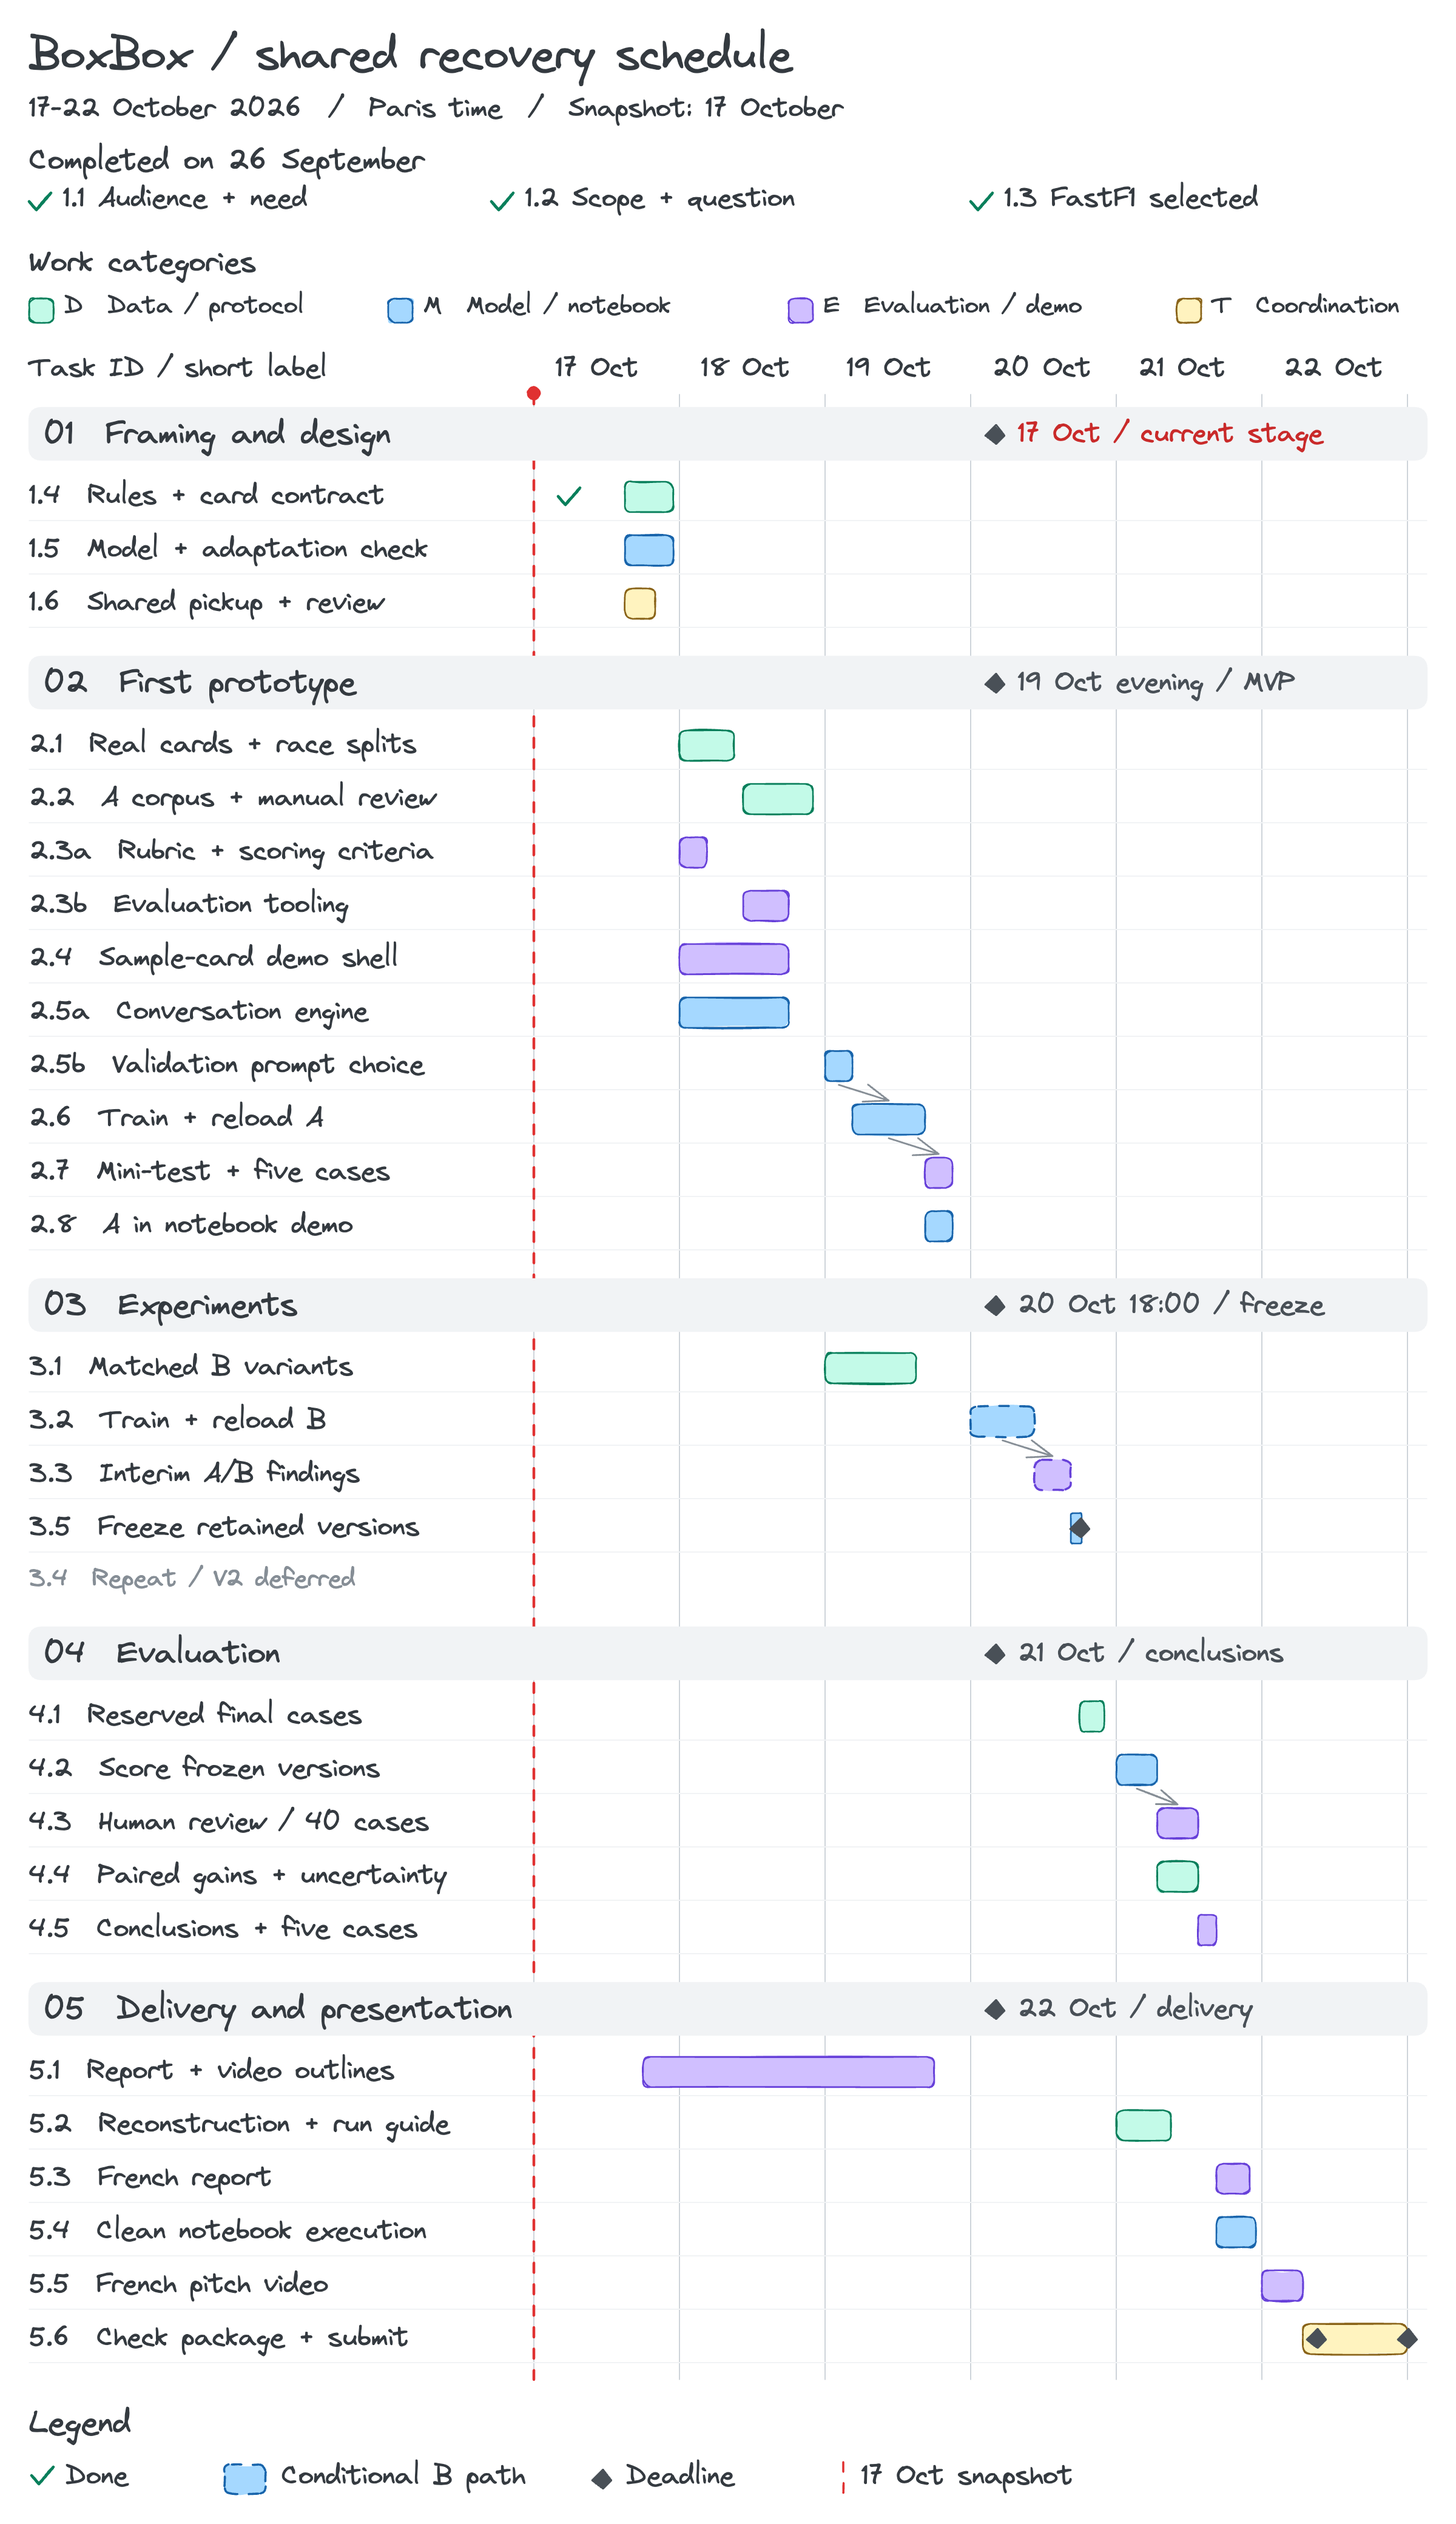
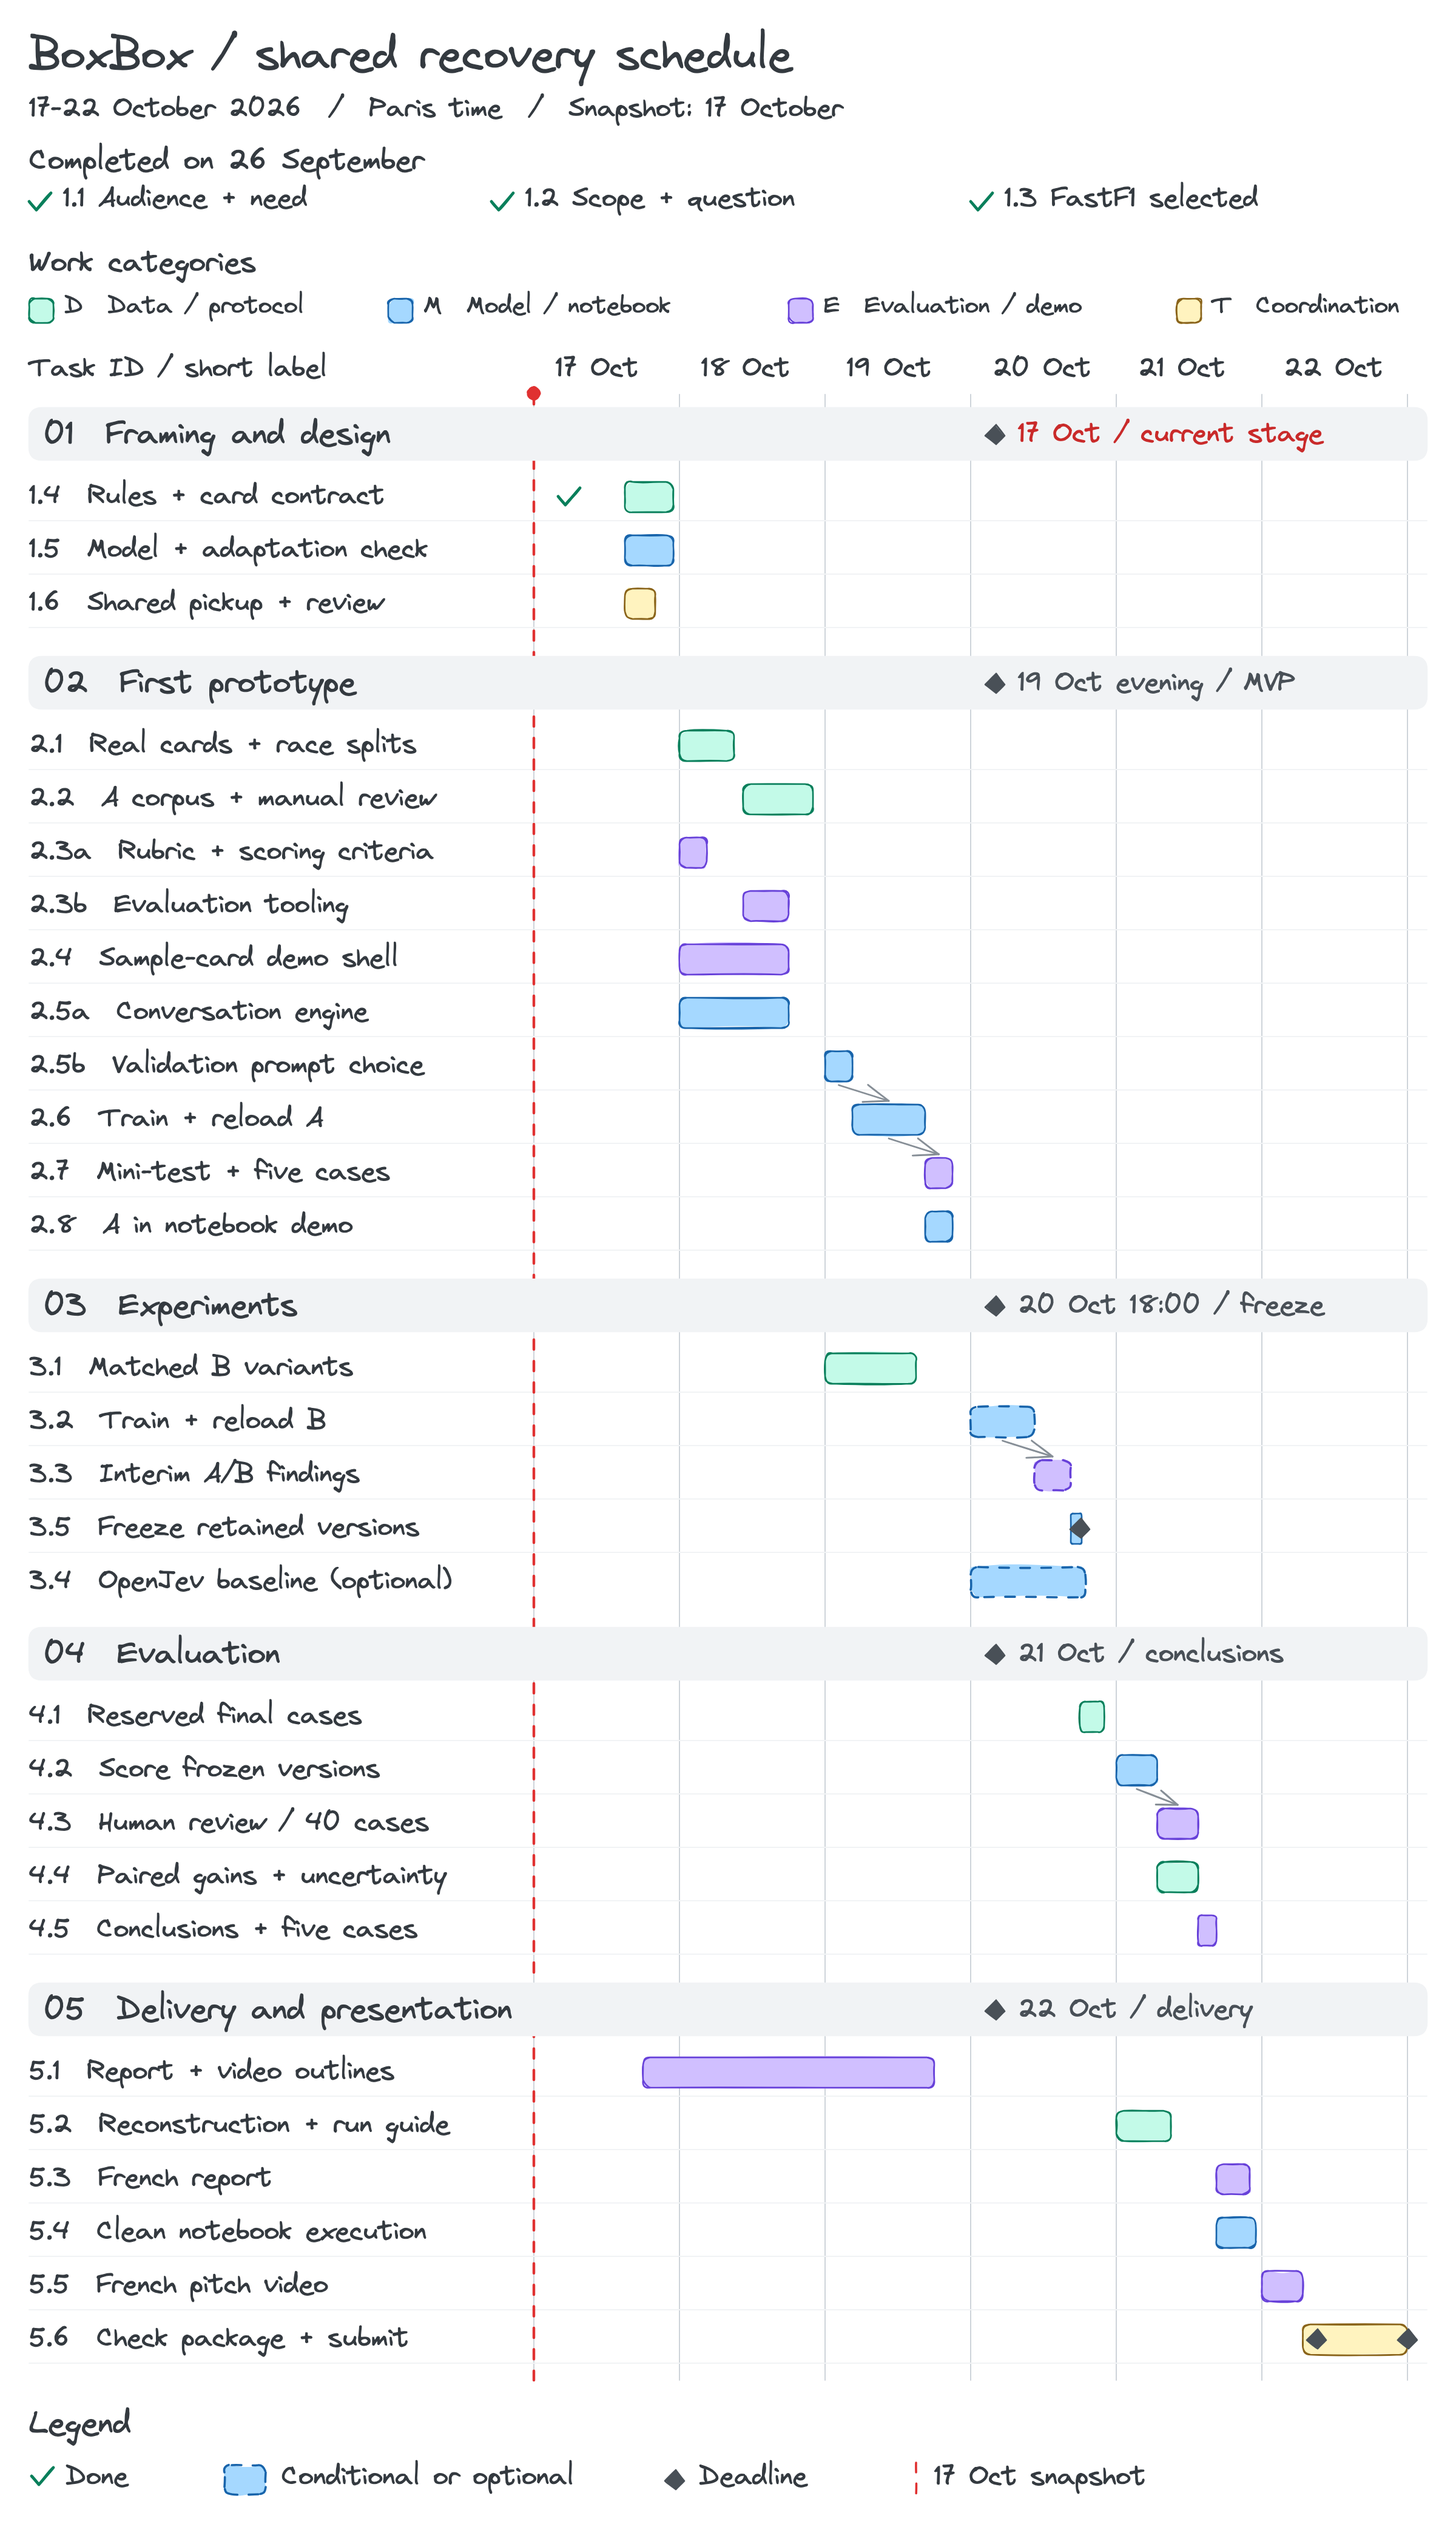
docs(3.4): make 3.4 an optional OpenJev zero-shot baseline
Task 3.4 now scores OpenJev Flash 9B (MLX 4-bit) zero-shot on the CALL
line after the MVP gate, while B trains. It is dropped first when time
is short and the freeze never waits for it. Repeat runs and V2 stay
deferred. Details and sources are in #35.

diff --git a/docs/roadmap.md b/docs/roadmap.md
@@ -1,6 +1,6 @@
 # BoxBox recovery roadmap
 
-**Snapshot: 17 October 2026 — milestone 1 is in progress.** Audience, scope and FastF1 selection (1.1–1.3), and the race-card contract and rules (1.4), are done. No model prototype, training run or result has been delivered. Other tasks are unstarted; repeat runs and V2 (3.4) are deferred.
+**Snapshot: 17 October 2026 — milestone 1 is in progress.** Audience, scope and FastF1 selection (1.1–1.3), and the race-card contract and rules (1.4), are done. No model prototype, training run or result has been delivered. Other tasks are unstarted. Task 3.4 is now an optional zero-shot baseline with OpenJev Flash 9B; repeat runs and V2 stay deferred.
 
 This is the single active roadmap. Its tables define task IDs, outputs, dependencies and proposed windows. [GitHub issues](https://github.com/mcrayssac/ING3_IAA_GB_NLP_Project/issues) track live claims, blockers, reviews and evidence. Table statuses and diagrams are dated snapshots, never automatic progress based on elapsed dates. The [execution guide](roadmap-annexe.md) maps the assignment and both earlier plans to these tasks.
 
@@ -10,7 +10,7 @@ The product, interface, prompts, training examples, code, notebook explanations,
 
 [Full-size schedule](diagrams/roadmap-gantt.png) · [Editable Excalidraw source](diagrams/roadmap-gantt.excalidraw)
 
-The README retains the separate business overview. The Gantt groups tasks by milestone; IDs match the tables. Bars are proposed work windows, not full-time allocations or measured runtimes. Only selected major hand-offs are drawn; all prerequisites are listed below. The red line dates this snapshot, checkmarks identify completed tasks, and diamonds identify deadlines. Dashed B bars mean the full research path remains conditional on the decision gates, not that it is already abandoned. Colors identify work categories, not owners or progress.
+The README retains the separate business overview. The Gantt groups tasks by milestone; IDs match the tables. Bars are proposed work windows, not full-time allocations or measured runtimes. Only selected major hand-offs are drawn; all prerequisites are listed below. The red line dates this snapshot, checkmarks identify completed tasks, and diamonds identify deadlines. Dashed bars mark the B path, which remains conditional on the decision gates, and the optional 3.4; neither is abandoned. Colors identify work categories, not owners or progress.
 
 ## Capacity and priorities
 
@@ -18,7 +18,7 @@ The three members have **50–70 collective hours remaining**, including coordin
 
 Protect the complete seven-step assignment, executed notebook, French report and French video. Target baseline/A/B with **400 training examples for A and 400 for B**, approximately **200 final cases**, and the **same 40 human-reviewed cases per retained version** (120 responses for three versions, 80 for two). Any reduction requires a recorded team decision with its effect on the claims and schedule.
 
-Never cut race separation before example generation, manual data-quality checks, validation-based selection, the closed final test or honest reporting. If B is dropped, retain a valid baseline/A comparison and state that the A/B research question remains unanswered. Repeat runs and V2 are deferred beyond this recovery window.
+Never cut race separation before example generation, manual data-quality checks, validation-based selection, the closed final test or honest reporting. If B is dropped, retain a valid baseline/A comparison and state that the A/B research question remains unanswered. The optional OpenJev baseline (3.4) starts only after the MVP gate and is the first work dropped when time is short. Repeat runs and V2 are deferred beyond this recovery window.
 
 **Reserve: 8 collective hours, inside the 50–70 hours.** Keep it separate from task allocations; protect corrections and submission, especially after the package is ready on 22 October at noon. It is not eight hours per person or extra capacity. There are no per-task effort estimates.
 
@@ -43,7 +43,7 @@ All dates below are **2026, Europe/Paris**. A predecessor's reviewed and integra
 | 18 Oct, afternoon–evening | 2.2 corpus/manual review and 2.3b scoring fixtures; finish engine/demo | Reviewed validation examples and usable components before prompt selection |
 | 19 Oct, morning–afternoon | 2.5b validation prompt choice, then 2.6 train/reload A; 3.1 matched B variants in parallel | Keep the A corpus fixed while preparing B; measure training |
 | 19 Oct, evening | 2.7 mini-test and 2.8 real adapter integration in parallel | Complete seven-step MVP; otherwise focus on blockers and reassess research scope |
-| 20 Oct, morning–afternoon | 3.2 B training, noon gate, 3.3 interim analysis, then 3.5 freeze | **Freeze by 18:00**; no final cases opened earlier |
+| 20 Oct, morning–afternoon | 3.2 B training, noon gate, 3.3 interim analysis, then 3.5 freeze; optional 3.4 OpenJev baseline while B trains | **Freeze by 18:00**; no final cases opened earlier |
 | 20 Oct, evening | 4.1 prepare final cases from reserved races | Accepted final manifest before 21 Oct scoring |
 | 21 Oct, morning | 4.2 score frozen versions and 5.2 package reconstruction/guide/links | Paired outputs enable 4.3/4.4; packaged guide enables clean execution |
 | 21 Oct, afternoon–evening | 4.3 human review and 4.4 statistics, then 4.5 conclusions; 5.3 report and 5.4 clean notebook run | Traceable results and reproducible deliverables |
@@ -56,7 +56,7 @@ All dates below are **2026, Europe/Paris**. A predecessor's reviewed and integra
 |---|---|
 | After the first feasibility run (1.5) | Use measured runtime, memory, reload success and actual GPU access to confirm the schedule or record a workable fallback; check reconstruction runtime in 2.1 as well. |
 | 19 Oct evening (2.7 + 2.8) | If the complete MVP is missing, prioritise its blockers and explicitly reassess research scope. A shell or an unreviewed training run is not a complete MVP. |
-| 20 Oct noon (3.2) | Proceed with B only if training, review and interim analysis can finish before the 18:00 freeze. Otherwise record the decision to defer B/3.3 and freeze baseline/A after 2.7 and 2.8. |
+| 20 Oct noon (3.2) | Proceed with B only if training, review and interim analysis can finish before the 18:00 freeze. Otherwise record the decision to defer B/3.3 and freeze baseline/A after 2.7 and 2.8. Defer the optional 3.4 first if it competes with B or the freeze. |
 
 Record a gate decision in its issue: evidence, available people/hardware, retained versions/counts, changed task states, impact on claims and team agreement. Do not reduce targets silently. Once frozen, no new experiment is scheduled. A correction affecting outputs requires a documented decision and a new freeze before final evaluation.
 
@@ -73,7 +73,7 @@ Categories are not exclusive responsibilities. **Anyone available may claim a re
 
 Use **planned → ready → in progress → review → done**, plus **blocked** and **deferred**. Keep one matching `status:` label on each issue. A task becomes ready only when its prerequisites are reviewed and integrated. Closing it requires acceptance evidence and an integrated change or accessible deliverable. See the [execution guide](roadmap-annexe.md) for claim, review and handover details.
 
-Ready and unassigned in this snapshot: **[1.5](https://github.com/mcrayssac/ING3_IAA_GB_NLP_Project/issues/4) model feasibility and observations, [1.6](https://github.com/mcrayssac/ING3_IAA_GB_NLP_Project/issues/5) agree task pickup and review, [5.1](https://github.com/mcrayssac/ING3_IAA_GB_NLP_Project/issues/25) draft French report and video outline**. Ready means claimable; these tasks have not started. The queue contains 27 unfinished tasks. The four completed tasks (1.1–1.4) and deferred 3.4 do not need new issues.
+Ready and unassigned in this snapshot: **[1.5](https://github.com/mcrayssac/ING3_IAA_GB_NLP_Project/issues/4) model feasibility and observations, [1.6](https://github.com/mcrayssac/ING3_IAA_GB_NLP_Project/issues/5) agree task pickup and review, [5.1](https://github.com/mcrayssac/ING3_IAA_GB_NLP_Project/issues/25) draft French report and video outline**. Ready means claimable; these tasks have not started. The queue contains 28 unfinished tasks, including the optional [3.4](https://github.com/mcrayssac/ING3_IAA_GB_NLP_Project/issues/35). The four completed tasks (1.1–1.4) do not need new issues.
 
 | Parallel opportunity | Prerequisite and capacity condition |
 |---|---|
@@ -81,6 +81,7 @@ Ready and unassigned in this snapshot: **[1.5](https://github.com/mcrayssac/ING3
 | 2.2 corpus preparation alongside 2.3b evaluation tooling | Splits/IDs accepted; 2.3a rubric accepted for tooling; final test stays closed |
 | 2.4 sample-card demo alongside 2.5a engine, then prompt choice/training A | Shared contract; use a stub until 2.8; avoid concurrent notebook edits |
 | 3.1 B variants alongside baseline/A work | Reviewed A corpus in 2.2; B training still waits for complete MVP 2.7 + 2.8 |
+| 3.4 OpenJev baseline alongside 3.2 B training | Complete MVP 2.7 + 2.8; B training runs unattended; 3.5 does not wait for 3.4 |
 | 5.1 report/video outlines alongside implementation | Scope already agreed; no measured-results claims until evaluation |
 | 4.1 final preparation / 4.2 scoring alongside writing preparation | Final preparation follows the freeze; drafts can be extended without tuning on final results |
 | 4.3 human review alongside 4.4 statistical analysis | Frozen paired outputs; 4.4 initially analyses automatic measures, human scores join in 4.5 |
@@ -126,7 +127,7 @@ Windows include implementation, checks and hand-off review; they are not effort 
 | 3.1 | **Prepare matched B variants.** Freeze matched A/B corpora: target 400 each, 340 identical examples and 60 reviewed missing-required-field replacements in B. | D | 19 Oct | 2.2 | planned | [#16](https://github.com/mcrayssac/ING3_IAA_GB_NLP_Project/issues/16) |
 | 3.2 | **Train controlled adapter B.** Train and reload B using the fixed A settings; retain losses and validation/mini-test outputs. | M | 20 Oct, morning–early afternoon | 3.1, 2.7, 2.8 | planned | [#17](https://github.com/mcrayssac/ING3_IAA_GB_NLP_Project/issues/17) |
 | 3.3 | **Write the interim A/B analysis.** Compare A/B on validation and the exploratory mini-test, including unjustified answers and excessive refusals. | E | 20 Oct, afternoon | 3.2 | planned | [#18](https://github.com/mcrayssac/ING3_IAA_GB_NLP_Project/issues/18) |
-| 3.4 | **Repeat A/B or explore V2.** No repeat run or V2 is scheduled before delivery. If revisited later, a useful A/B repeat takes priority over another model. | M | Deferred beyond this recovery window | 3.3 | deferred | — |
+| 3.4 | **Zero-shot OpenJev baseline (optional).** Score OpenJev Flash 9B (MLX 4-bit) zero-shot on the CALL line of the same validation and mini-test cards; freeze it with the retained versions or record the drop. It has no WHY sentence, so it stays out of 4.3 human review. Repeat runs and V2 stay deferred. | M | 20 Oct, morning–afternoon | 2.7, 2.8 | planned | [#35](https://github.com/mcrayssac/ING3_IAA_GB_NLP_Project/issues/35) |
 | 3.5 | **Freeze retained versions.** Freeze retained models/adapters, prompts, corpora, decoding, configurations and evaluation protocol before opening the final test. | M | 20 Oct, by 18:00 | 3.3; **only if B is dropped:** 2.7 + 2.8 + recorded team decision | planned | [#19](https://github.com/mcrayssac/ING3_IAA_GB_NLP_Project/issues/19) |
 
 ### 4. Evaluation
